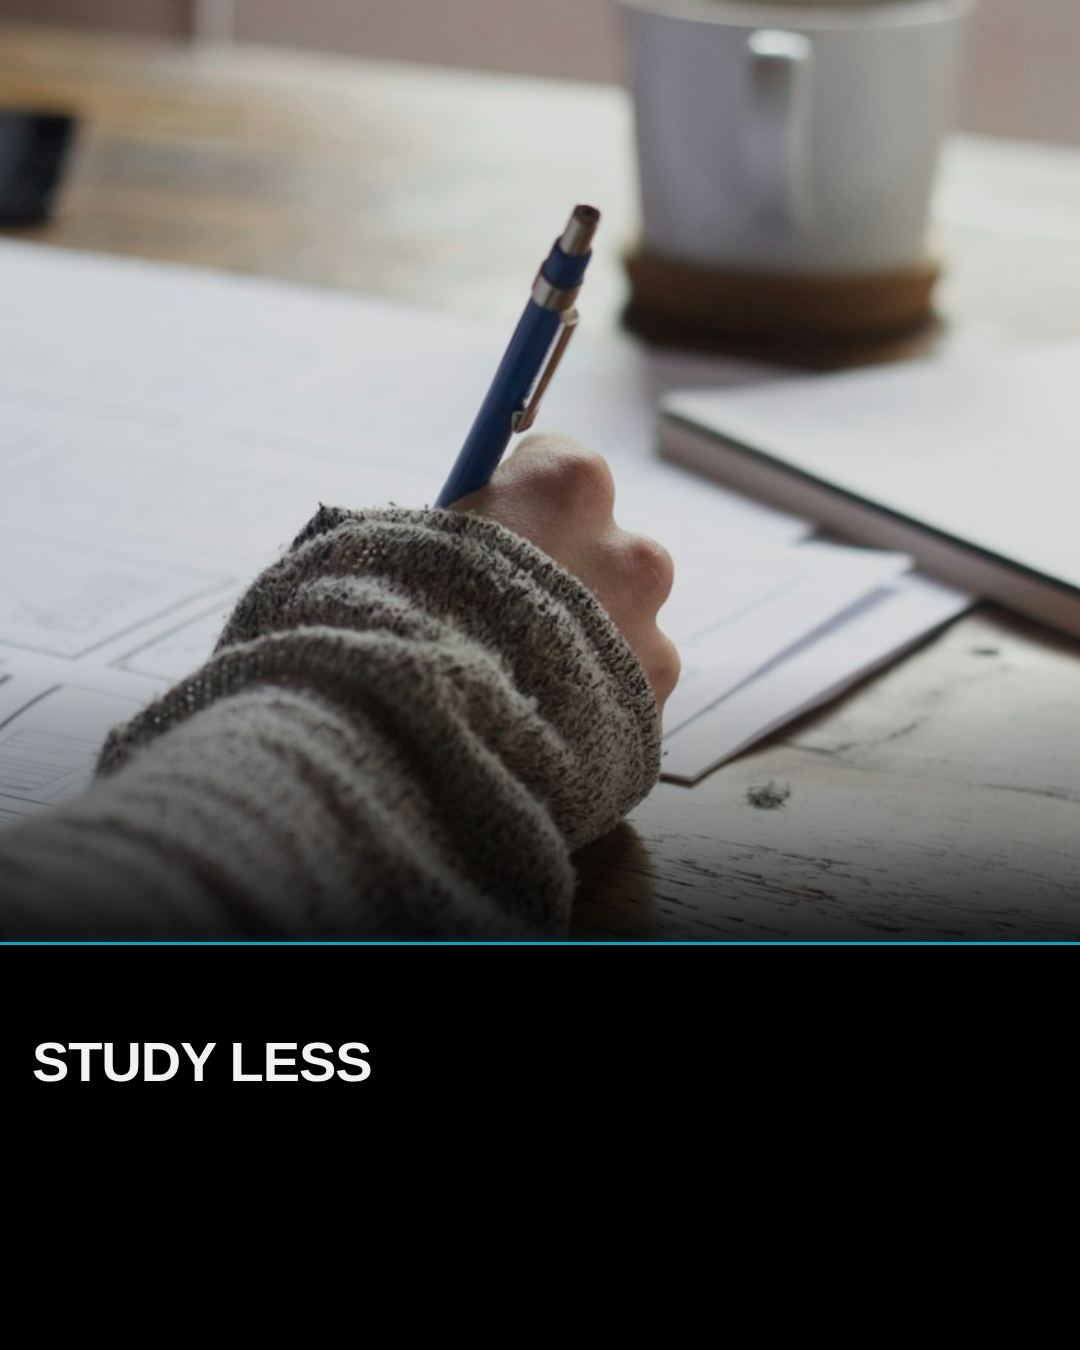
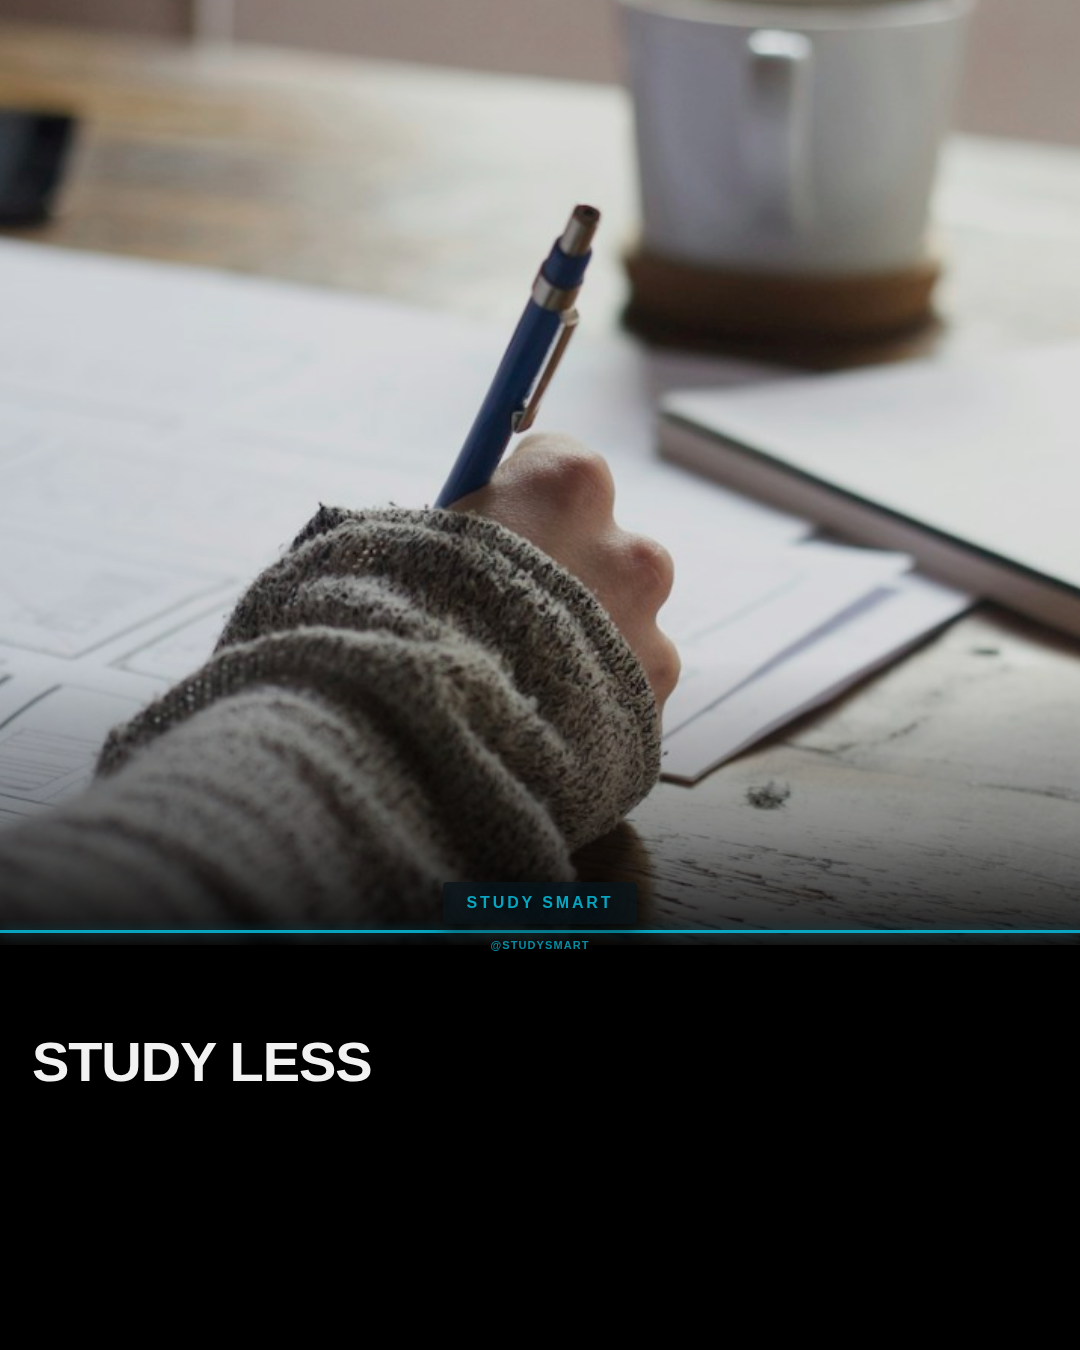
CRITICAL FIX: Profile/micro-label now visible (z-index + positioning)
Root cause: micro-label at top:70% was painted over by black slab (also 70%, opaque #000).

Fixed (evolving.ai style):
1. Moved micro-label to straddle divider, sitting mostly in IMAGE area (translateY -60px above 70% line)
2. Added zIndex:20 to divider+label container (black slab is zIndex:10)
3. Restructured layout: profile tag ABOVE divider, handle BELOW divider
4. Dark plate with border-radius + box-shadow for profile tag
5. Handle (@mindHacks etc.) shown below divider in smaller type (11px, 0.85 opacity)
6. CTA kept at 20px

Re-rendered all 10 editorial frames (0+24 for 5 niches).
MD5s: all 10 changed. Profile/brand tag NOW VISIBLE in PNGs.

Changed region(s): [[0.0, 0.6533, 1.0, 0.7156]]

diff --git a/src/templates/HookEditorial.tsx b/src/templates/HookEditorial.tsx
@@ -124,17 +124,43 @@ const HookEditorial: React.FC<HookEditorialProps> = ({ data, branding }) => {
                 />
             </div>
 
-            {/* Thin divider + micro-label */}
+            {/* Divider + micro-label: STRADDLES the 70% line, mostly in image area, z-index above slab */}
             <div
                 style={{
                     position: 'absolute',
                     top: '70%',
                     left: 0,
                     width: '100%',
-                    transform: `translateY(${microLabelY}px)`,
+                    transform: `translateY(calc(${microLabelY}px - 60px))`, // Position above the 70% line
                     opacity: microLabelOpacity,
+                    zIndex: 20, // Above black slab
+                    display: 'flex',
+                    flexDirection: 'column',
+                    alignItems: 'center',
                 }}
             >
+                {/* Profile/brand tag: dark plate straddling divider */}
+                <div
+                    style={{
+                        padding: '12px 24px',
+                        marginBottom: 6,
+                        fontSize: 16,
+                        fontWeight: 900,
+                        letterSpacing: '0.18em',
+                        color: tokens.colors.primary,
+                        textTransform: 'uppercase',
+                        fontFamily: "'Montserrat', sans-serif",
+                        textAlign: 'center',
+                        textShadow: `0 3px 12px rgba(0,0,0,1), 0 0 24px ${tokens.colors.primary}60`,
+                        backgroundColor: `${tokens.colors.background}f0`,
+                        backdropFilter: 'blur(6px)',
+                        borderRadius: 4,
+                        boxShadow: `0 4px 16px rgba(0,0,0,0.8)`,
+                    }}
+                >
+                    {microLabel}
+                </div>
+                
                 {/* Thin accent divider */}
                 <div
                     style={{
@@ -144,23 +170,22 @@ const HookEditorial: React.FC<HookEditorialProps> = ({ data, branding }) => {
                         boxShadow: `0 0 12px ${tokens.colors.primary}80`,
                     }}
                 />
-                {/* Micro-label: profile/brand tag (evolving.ai style) */}
+                
+                {/* Handle below divider (optional, smaller) */}
                 <div
                     style={{
-                        padding: '14px 32px',
-                        fontSize: 16,
-                        fontWeight: 900,
-                        letterSpacing: '0.18em',
+                        marginTop: 6,
+                        fontSize: 11,
+                        fontWeight: 700,
+                        letterSpacing: '0.1em',
                         color: tokens.colors.primary,
                         textTransform: 'uppercase',
                         fontFamily: "'Montserrat', sans-serif",
-                        textAlign: 'center',
-                        textShadow: `0 3px 12px rgba(0,0,0,1), 0 0 24px ${tokens.colors.primary}60`,
-                        backgroundColor: `${tokens.colors.background}e6`,
-                        backdropFilter: 'blur(4px)',
+                        textShadow: `0 2px 8px rgba(0,0,0,1)`,
+                        opacity: 0.85,
                     }}
                 >
-                    {microLabel}
+                    {branding.handle}
                 </div>
             </div>
 
@@ -178,6 +203,7 @@ const HookEditorial: React.FC<HookEditorialProps> = ({ data, branding }) => {
                     justifyContent: 'center',
                     alignItems: 'flex-start',
                     padding: '0 32px 40px 32px',
+                    zIndex: 10, // Below divider/label (which is zIndex 20)
                 }}
             >
                 {/* Headline: left-aligned ALL-CAPS slab text (consistent grammar) */}
